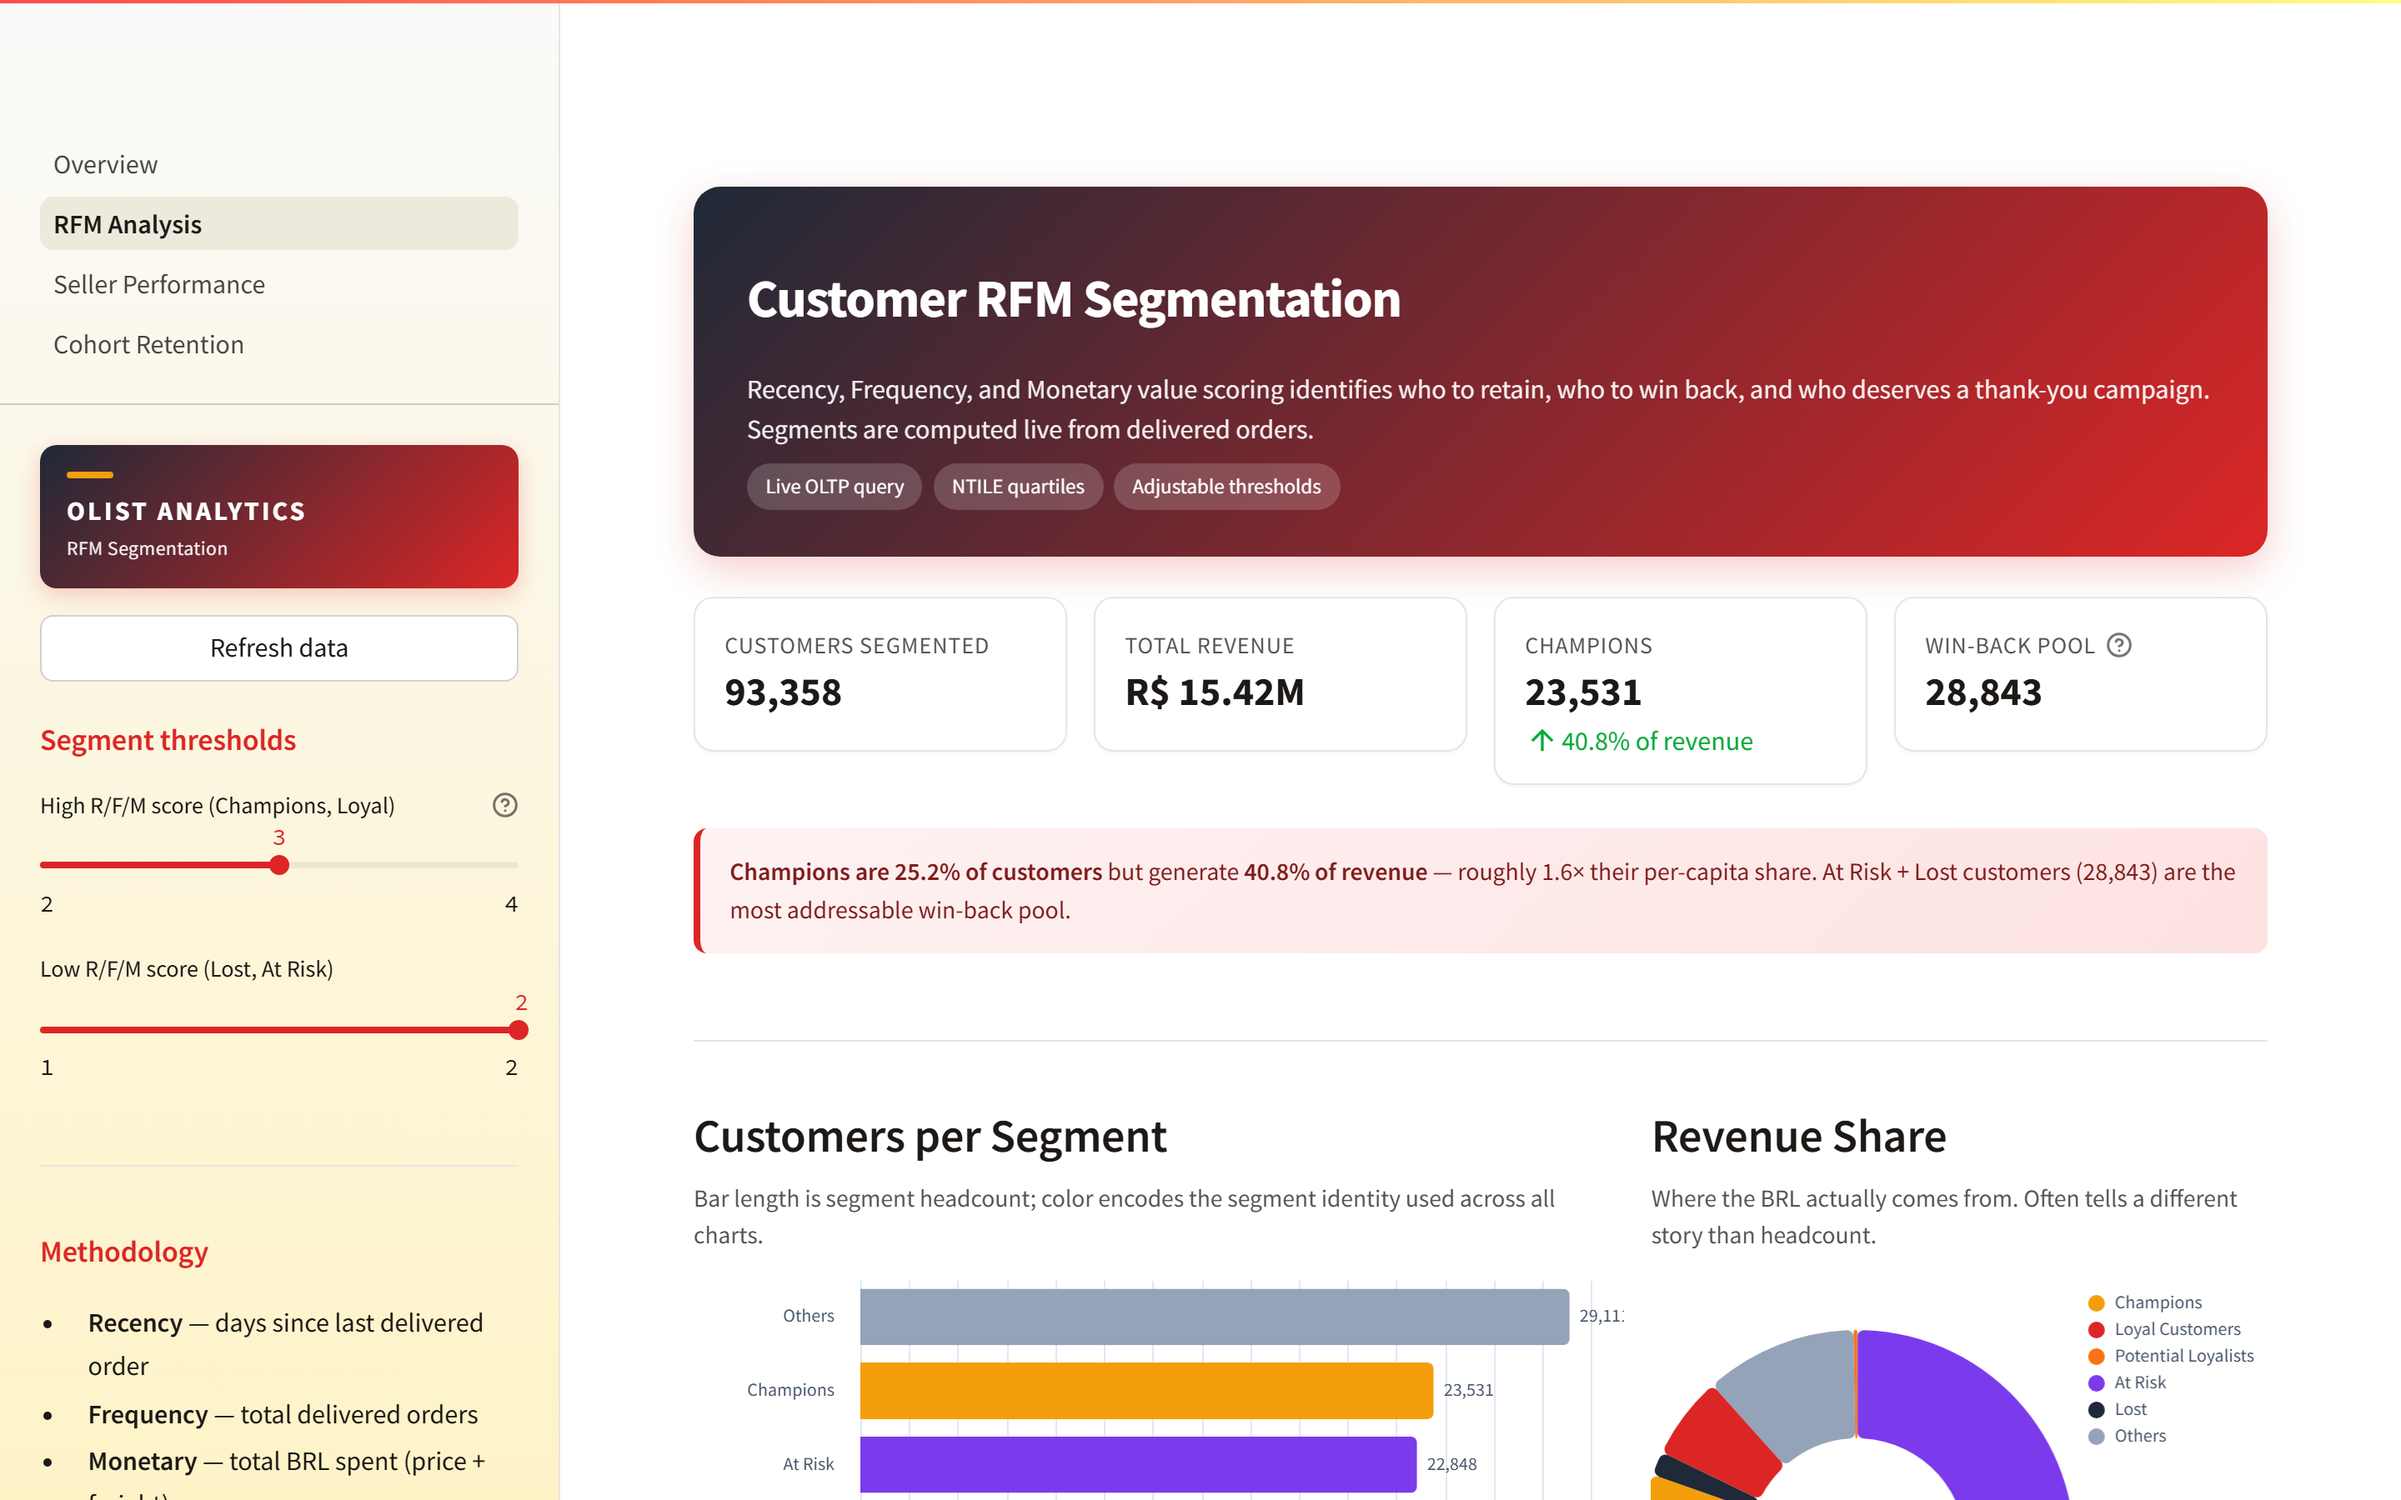
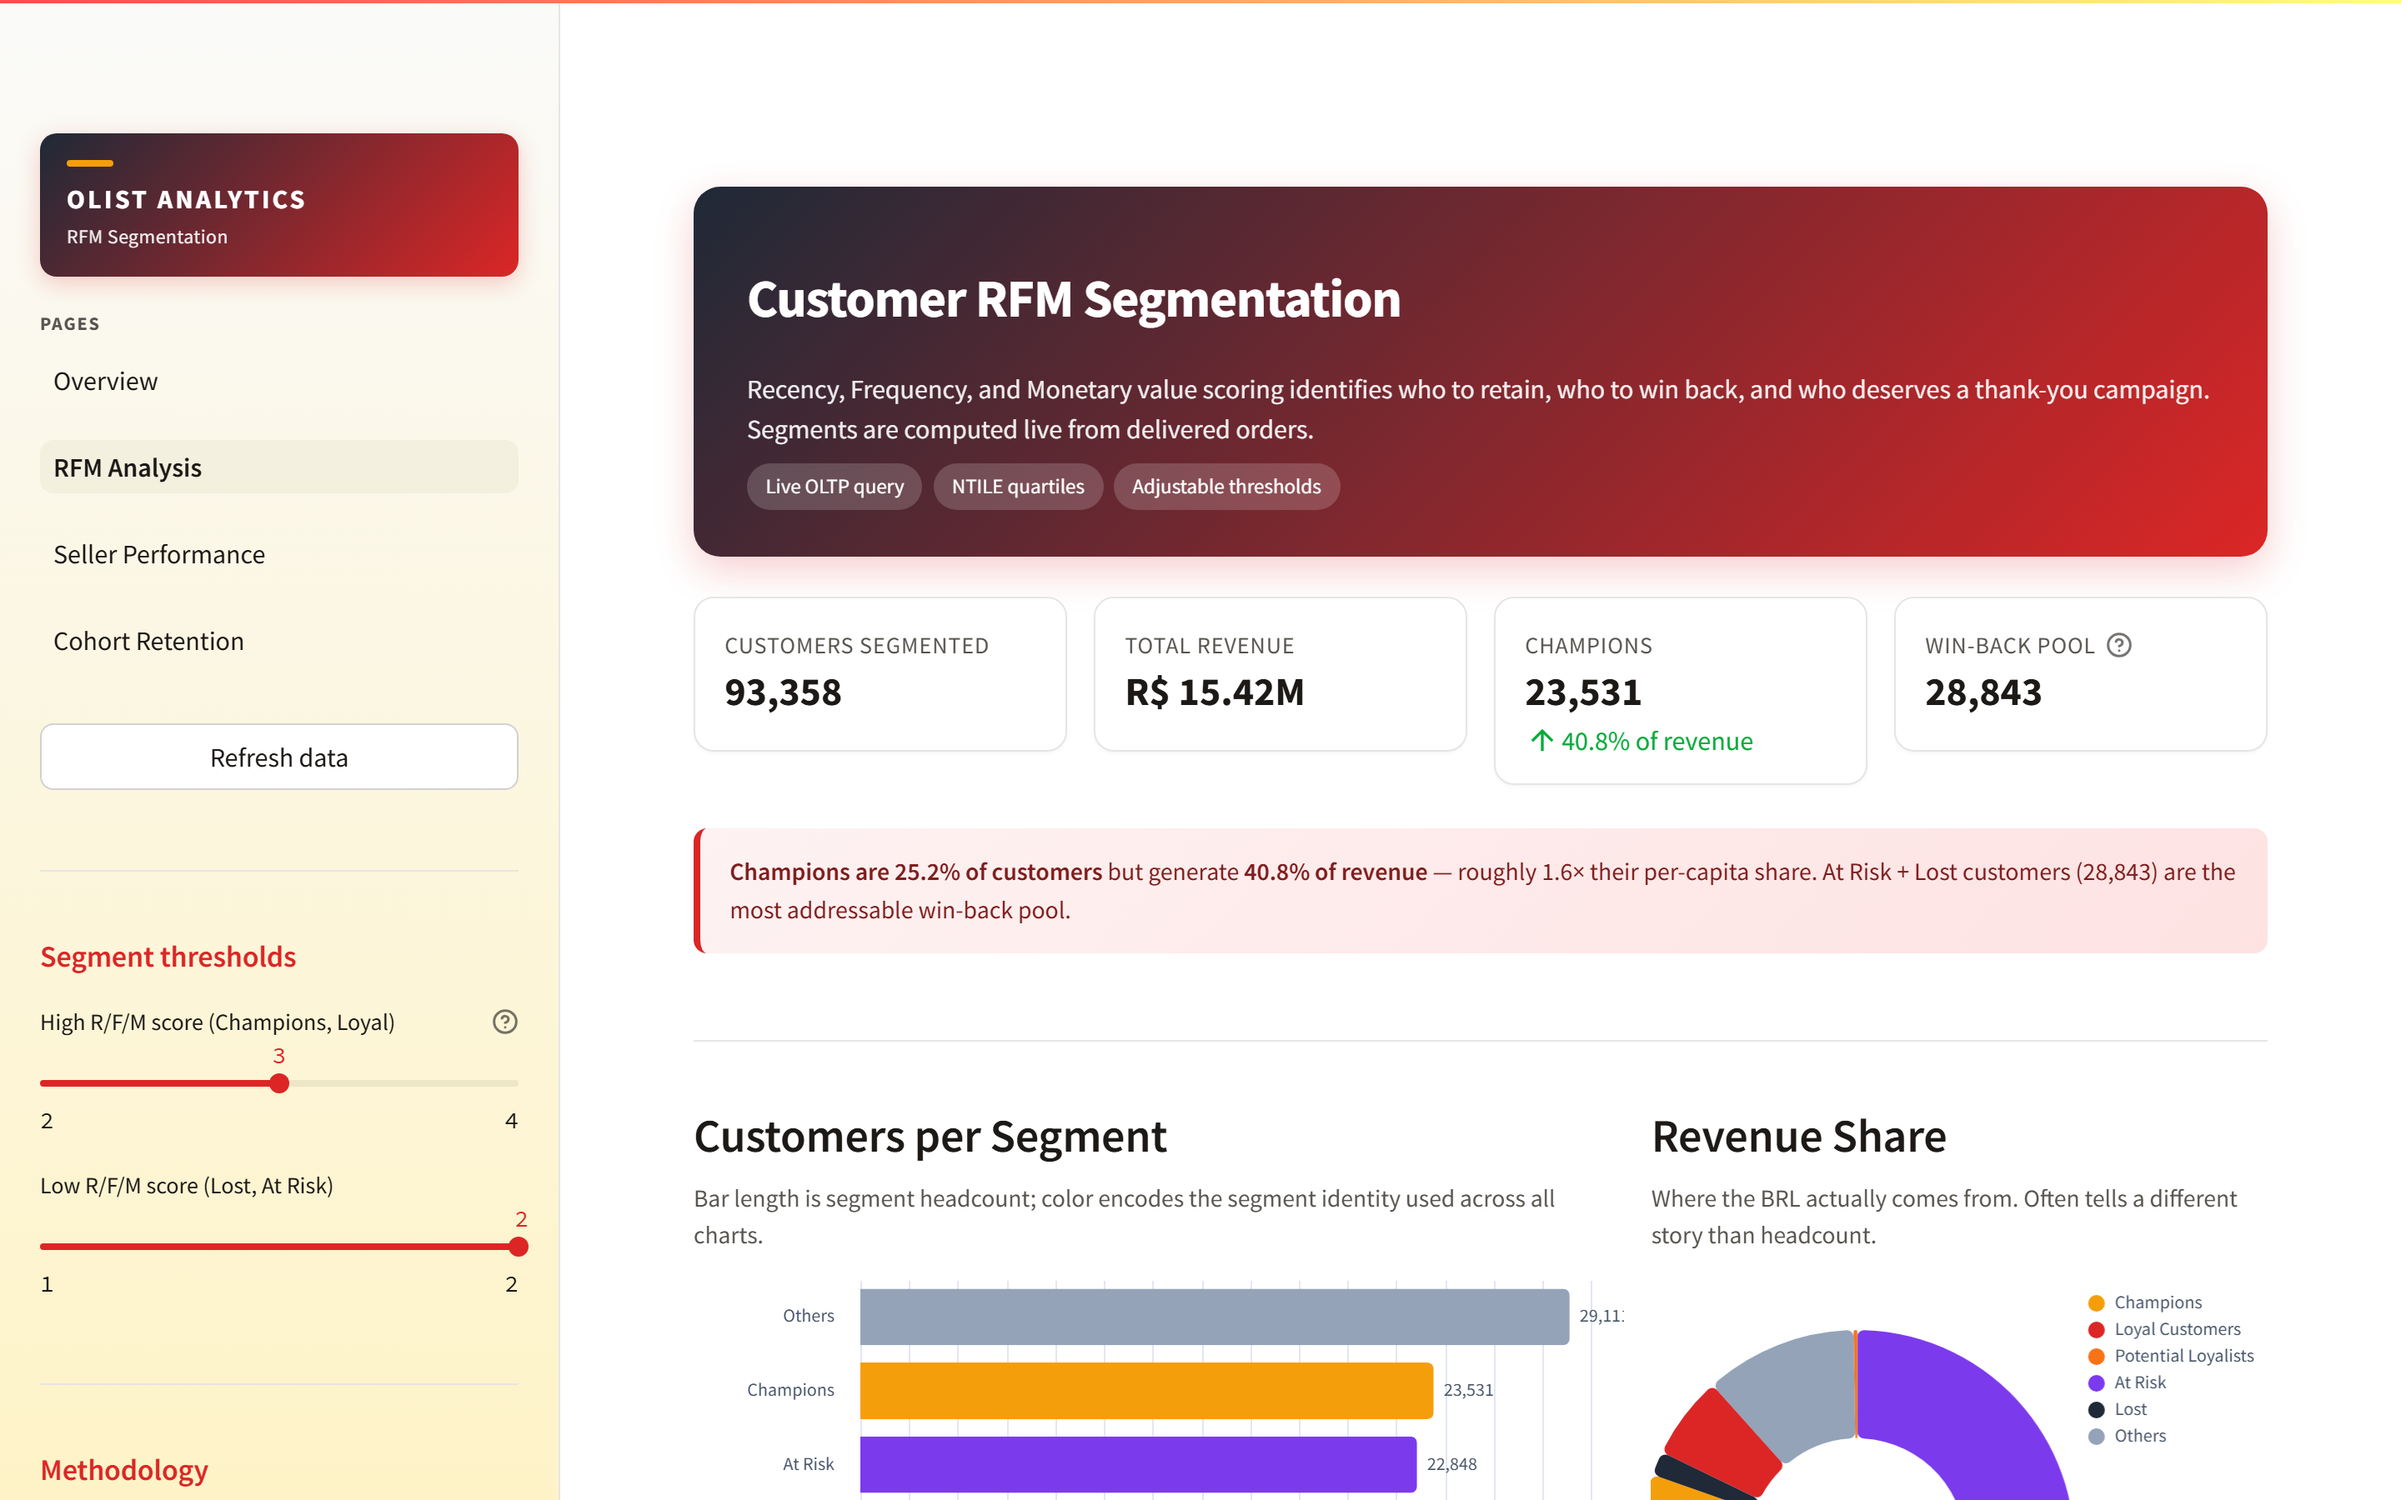
move sidebar brand to top with custom page navigation

diff --git a/app/style.py b/app/style.py
@@ -220,6 +220,15 @@ _CSS = """
         letter-spacing: 0.02em;
     }
 
+    .sidebar-section-label {
+        text-transform: uppercase;
+        font-size: 0.7rem;
+        letter-spacing: 0.08em;
+        font-weight: 700;
+        color: var(--muted);
+        margin: 0.25rem 0 0.4rem 0;
+    }
+
     .page-footer {
         border-top: 1px solid var(--border);
         margin-top: 2.5rem;
@@ -330,8 +339,16 @@ def note(text: str, label: str = "What this means") -> None:
     )
 
 
+_PAGES = [
+    ("Overview.py", "Overview"),
+    ("pages/1_RFM_Analysis.py", "RFM Analysis"),
+    ("pages/2_Seller_Performance.py", "Seller Performance"),
+    ("pages/3_Cohort_Retention.py", "Cohort Retention"),
+]
+
+
 def brand_sidebar(tagline: str = "Phase 3 · Live BI Dashboard") -> None:
-    """Render the OLIST ANALYTICS brand block + a refresh button at the top of the sidebar."""
+    """Render the brand block, page nav, and a refresh button at the top of the sidebar."""
     st.sidebar.markdown(
         f"""
         <div class="sidebar-brand">
@@ -342,9 +359,19 @@ def brand_sidebar(tagline: str = "Phase 3 · Live BI Dashboard") -> None:
         """,
         unsafe_allow_html=True,
     )
+    # st.page_link requires an entrypoint context; skip when not available
+    # (e.g. headless AppTest invocations) so the page can still render.
+    try:
+        st.sidebar.markdown('<p class="sidebar-section-label">Pages</p>', unsafe_allow_html=True)
+        for path, label in _PAGES:
+            st.sidebar.page_link(path, label=label)
+        st.sidebar.markdown("<div style='height: 0.5rem'></div>", unsafe_allow_html=True)
+    except Exception:
+        pass
     if st.sidebar.button("Refresh data", use_container_width=True, help="Clear all cached queries and re-fetch from Neon"):
         st.cache_data.clear()
         st.rerun()
+    st.sidebar.divider()
 
 
 def footer() -> None:
